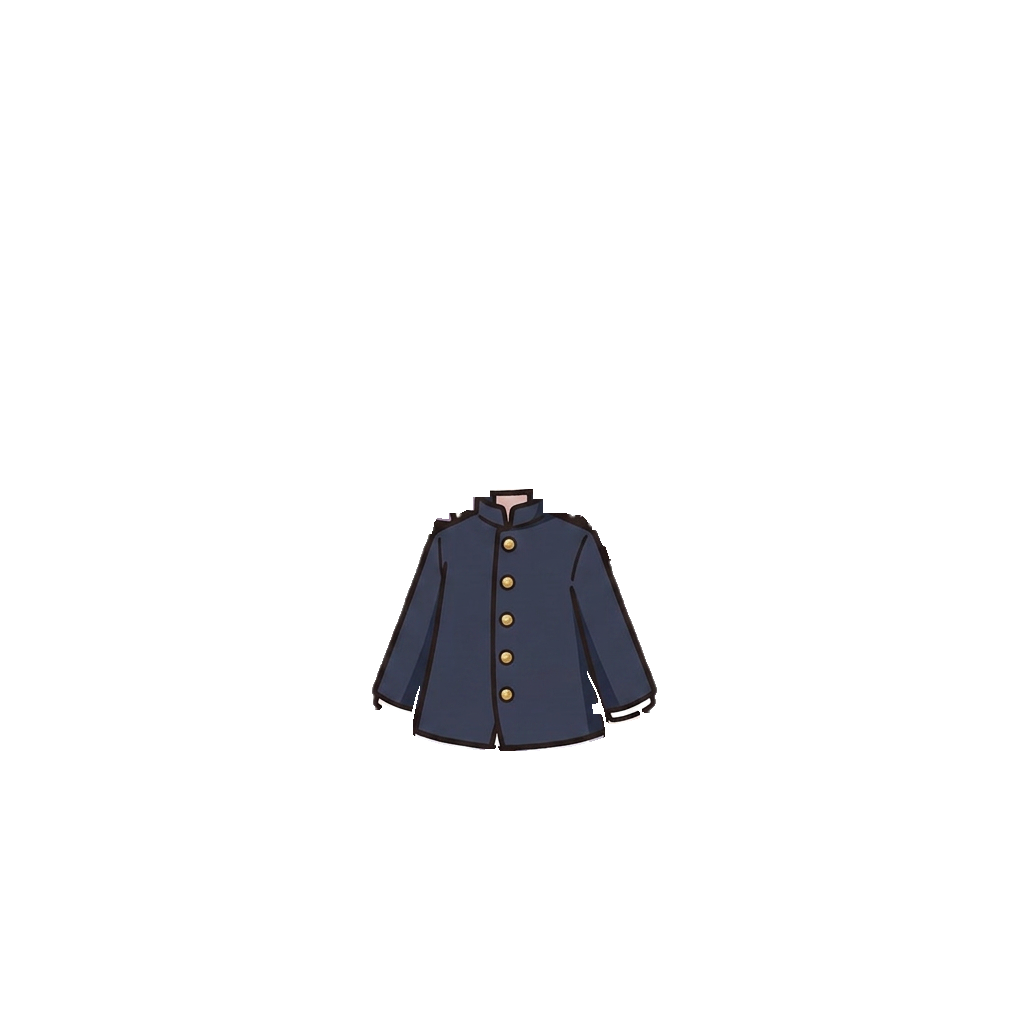
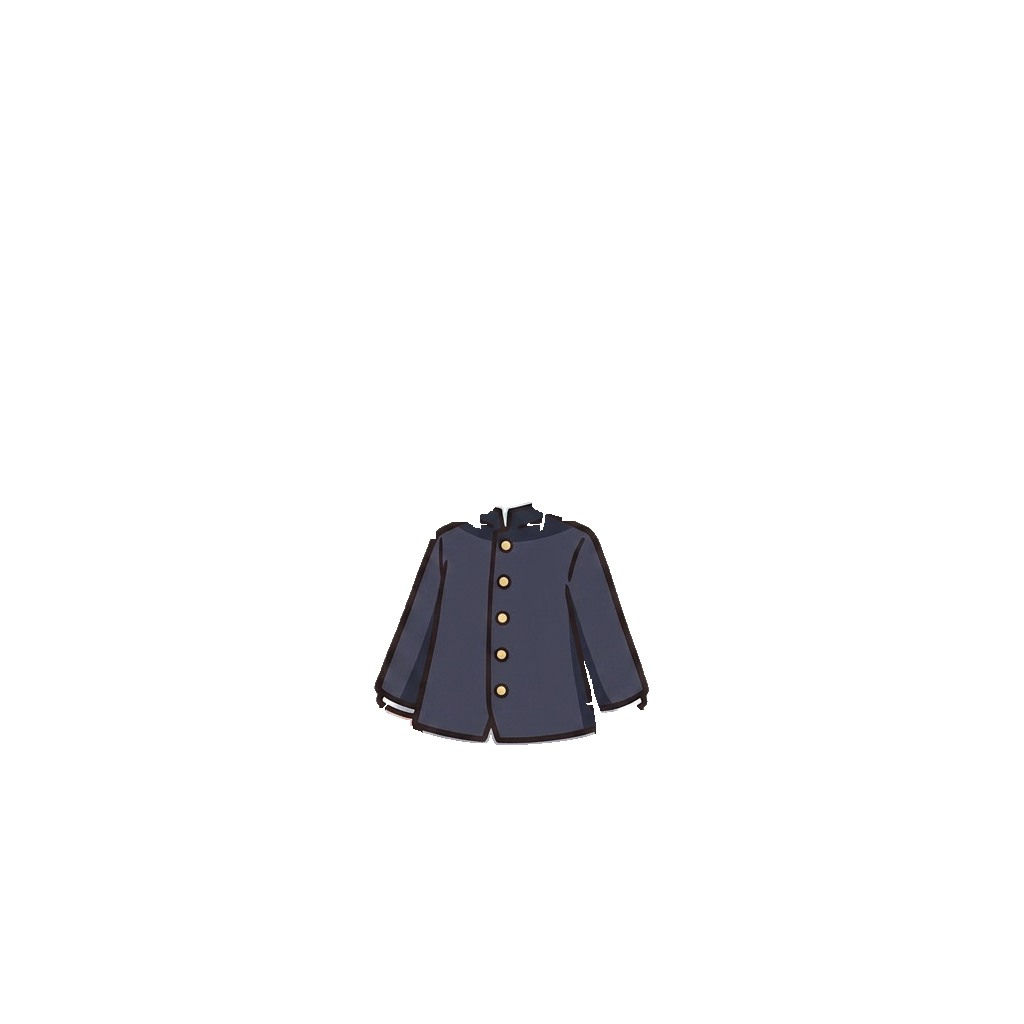
Add Mary Janes and loafers
The loafers aborted on the first run — the first item to need a dark
override for being merely mid-tone rather than dark. Brown leather sits at
90-110, under the default 115, so the whole shoe read as line art and no
regions survived. 80 lands in the empty trough between the ink at 20-40 and
the leather.

The Mary Jane's strap button is a white disc on black patent, and the shoe
hangs below the body, so cut_background saw white where the master was empty
and cut it out — a hole in the middle of the shoe. What tells a highlight
from a gap is not where the master is but what rings the pocket: a body gap
rings at 0.18-0.48 changed pixels, an item's own white at 0.94-1.0, with a
shape test besides, since a gap between two trouser legs is walled by
trousers and rings just as high but measures 7x77.

That stays opt-in, one item wide. The ring is evidence, not proof: the
striped sweater's collar seals a triangle of background between jaw and hair
and rings at 0.94, and keeping it would put a white wedge on the character
against any card that isn't white. Every other item re-extracts byte for
byte identical — checked across the fourteen renders with sealed pockets,
not assumed.

Changed region(s): [[0.3438, 0.4688, 0.6562, 0.75]]

diff --git a/web/index.html b/web/index.html
@@ -16,7 +16,7 @@
 <meta name="apple-mobile-web-app-title" content="Moodmate">
 <link rel="manifest" href="manifest.webmanifest">
 <link rel="apple-touch-icon" href="assets/appicon-192.png">
-<link rel="stylesheet" href="styles.css?v=b7a14b389e">
+<link rel="stylesheet" href="styles.css?v=e780231152">
 <script>
   /* Runs before first paint, so a chosen theme doesn't arrive a frame late as
      a white flash. app.js reads the same key and owns it from there. */
@@ -160,7 +160,7 @@
 <div class="lightbox" id="lightbox" hidden></div>
 <div class="lightbox char-zoom" id="char-zoom" hidden></div>
 
-<script src="i18n.js?v=b7a14b389e"></script>
-<script src="app.js?v=b7a14b389e"></script>
+<script src="i18n.js?v=e780231152"></script>
+<script src="app.js?v=e780231152"></script>
 </body>
 </html>

diff --git a/web/sw.js b/web/sw.js
@@ -5,7 +5,7 @@
 // Stamped by export_web.py from a hash of the built assets. It must change
 // whenever any asset does, because the image rule below is cache-first and a
 // cache keyed by a constant name is never invalidated.
-const CACHE = "moodmate-b7a14b389e";
+const CACHE = "moodmate-e780231152";
 const SHELL = [
   ".", "index.html", "styles.css", "app.js",
   "manifest.webmanifest", "assets/items.json",

diff --git a/process_item.py b/process_item.py
@@ -103,7 +103,7 @@ def outside(mask):
     return vis
 
 
-def cut_background(render, master, level=242, chroma=12):
+def cut_background(render, master, level=242, chroma=12, keep_inner_white=False):
     """Drop the white plate the model renders on, and return RGBA.
 
     Brightness alone can't identify the plate: this palette's lightest pastels
@@ -116,6 +116,20 @@ def cut_background(render, master, level=242, chroma=12):
     Plate pockets sealed inside the drawing (between hair and shoulder, say)
     are judged against the master: transparent there means it's a real gap in
     the silhouette, opaque means it's part of the artwork and must be kept.
+
+    That test alone loses white *inside* an item. A Mary Jane's strap button is
+    a white disc on a black shoe, and the shoe hangs below the body, so the
+    master is empty there and the button was cut out as background — a hole in
+    the middle of the shoe. `keep_inner_white` keeps such a pocket when it is
+    ringed by the item rather than by the body: gaps ring at 0.18-0.48 changed
+    pixels, internal highlights at 0.94-1.0.
+
+    It is opt-in rather than the default because the ring alone is not a proof.
+    The striped sweater's collar seals a triangle of background between jaw and
+    hair, and the collar redraws enough around it to ring at 0.94 — keeping that
+    puts a white wedge on the character wherever the card behind is not white.
+    Every item without the flag extracts exactly as before; that was checked,
+    not assumed, across the fourteen renders with sealed pockets.
     """
     a = np.array(render.convert("RGBA")).astype(int)
     rgb = a[..., :3]
@@ -125,14 +139,32 @@ def cut_background(render, master, level=242, chroma=12):
     pockets = near_white & ~bg
     plab, pcomps = components(pockets)
     ma = np.array(master.convert("RGBA"))[..., 3]
-    dropped = 0
+    changed = np.abs(flat(a) - flat(np.array(master.convert("RGBA")).astype(int))
+                     ).max(axis=2) > REPAINT
+    dropped = kept = 0
     for cid, n in pcomps:
         if n < 40:
             continue
         reg = plab == cid
-        if (ma[reg] <= 10).mean() > 0.8:   # master is empty here too: a real gap
-            bg |= reg
-            dropped += n
+        if (ma[reg] <= 10).mean() <= 0.8:  # master is opaque: artwork, keep
+            continue
+        ys, xs = np.nonzero(reg)
+        h, w = ys.max() - ys.min() + 1, xs.max() - xs.min() + 1
+        sliver = max(h, w) / float(min(h, w))
+        if keep_inner_white:
+            ring = morph(reg, "dilate", 2) & ~reg
+            # Shape as well as ring: the gap between two trouser legs is walled
+            # by the trousers on every side and rings as high as any highlight,
+            # but gives itself away as 7x77 on the pyjamas, 2x37 on the jeans,
+            # 3x64 on the gakuran trousers — far past the 1.0-3.1 of real
+            # highlights and the 7.0 of the thinnest sneaker opening.
+            if changed[ring].mean() >= 0.92 and sliver <= 8:
+                kept += n
+                continue
+        bg |= reg                          # master empty and body-ringed: a real gap
+        dropped += n
+    if kept:
+        print("kept %d px of white sealed inside the item" % kept)
     print("background: %d px outer, %d px sealed pockets" % (int(bg.sum()) - dropped, dropped))
 
     a[..., 3] = np.where(bg, 0, 255)
@@ -180,7 +212,7 @@ def main(render_path, name, master_name="base_char_master.png", dark_override=No
     # Models render on an opaque white plate, so cut it ourselves. If the file
     # already carries real transparency it has been cut elsewhere; leave it be.
     if (np.array(render)[..., 3] > 10).mean() > 0.98:
-        render = cut_background(render, master)
+        render = cut_background(render, master, keep_inner_white=name in KEEP_INNER_WHITE)
     else:
         print("background: already transparent, left alone")
 
@@ -601,6 +633,11 @@ HEM_TRIM = {"yukata": 903, "yukata_male": 896, "sundress": 842}
 # median of 91. Kept whole, the layer simply covers the base's foot stubs.
 AS_DRAWN = {"geta": 880}
 
+# Items whose own artwork contains sealed white — see cut_background. The Mary
+# Jane's strap button is a white disc surrounded by black patent, and the shoe
+# hangs below the body, so nothing but this flag keeps it.
+KEEP_INNER_WHITE = {"maryjanes"}
+
 ACCESSORIES = {"roundglasses"}
 
 DARK_OVERRIDES = {"male_gakuran": 55, "sailor": 55, "male_tie_shirt": 55,
@@ -622,7 +659,13 @@ DARK_OVERRIDES = {"male_gakuran": 55, "sailor": 55, "male_tie_shirt": 55,
                   # measure the same, so both take the same value. Over 40% of
                   # each figure sits below the default threshold — the automatic
                   # step would fire here, which is exactly why it is pinned.
-                  "yukata": 50, "yukata_male": 50}
+                  "yukata": 50, "yukata_male": 50,
+                  # Brown leather, and the first item to need this for being
+                  # merely mid-tone rather than dark: the fill sits at 90-110,
+                  # under the default 115, so the whole shoe read as line art
+                  # and the run aborted with no regions. The trough between the
+                  # ink at 20-40 and the leather at 90-110 is wide and empty.
+                  "loafers": 80}
 
 
 if __name__ == "__main__":

diff --git a/export_web.py b/export_web.py
@@ -87,6 +87,8 @@ ITEMS = [
     ("gakuran_pants",   "bottom", "Uniform Trousers",   "學生褲",         0),
     ("pyjama_pants",    "bottom", "Pyjama Pants",       "睡褲",           0),
     ("sneakers",        "shoes",  "Canvas Sneakers",    "帆布鞋",         0),
+    ("maryjanes",       "shoes",  "Mary Janes",         "瑪莉珍鞋",       0),
+    ("loafers",         "shoes",  "Loafers",            "樂福鞋",         0),
     ("geta",            "shoes",  "Wooden Geta",        "木屐",           0),
     ("roundglasses",    "face_acc", "Round Glasses",    "圓框眼鏡",       0),
     ("squareglasses",   "face_acc", "Square Glasses",   "方框眼鏡",       0),
